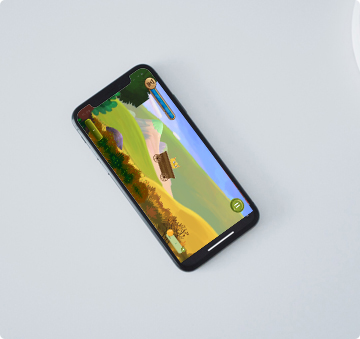
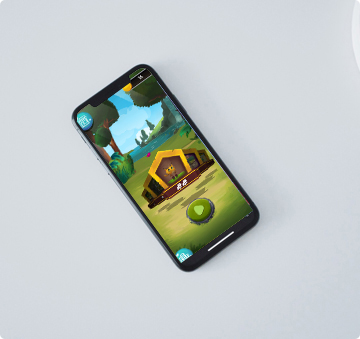
[REFACTOR][PORTFOLIO] adding atalMatal and removing mini games of it.

Changed region(s): [[0.2139, 0.2065, 0.7028, 0.7965]]

diff --git a/index.html b/index.html
@@ -216,15 +216,6 @@
 					</div>
 				</div>
 
-				<!-- <div class="col-lg-4 col-md-6">
-        				<div class="feature_item">
-        					<i class="fa fa-list-alt" aria-hidden="true"></i>
-        					<h4>Frontend web development</h4>
-        					<p>This is where I start the journey in development world! Html, Css, JavaScript, Jquery, Bootstrap And Vue.Js (SPA) are what I can work with to create a neat responsive template.</p>
-        				</div>
-        			</div> -->
-
-
 				<div class="col-lg-4 col-md-6">
 					<div class="feature_item">
 						<i class="fa fa-git"></i>
@@ -278,15 +269,7 @@
 		<div class="container">
 			<div class="main_title">
 				<h2>What I Have done (Selected)</h2>
-				<!-- <p>Lorem ipsum dolor sit amet, consectetur adipisicing elit, sed do eiusmod tempor</p> -->
 			</div>
-			<!-- <div class="projects_fillter">
-					<ul class="filter list">
-						<li class="active" data-filter="*"><a href="#">All Categories</a></li>
-						<li data-filter=".game"><a href="#">Game</a></li>
-						<li data-filter=".other"><a href="#">Other</a></li>
-					</ul>
-				</div> -->
 			<div class="projects_inner row">
 
 				<div class="col-lg-4 col-sm-6 game">
@@ -318,17 +301,6 @@
 				</div>
 
 				<div class="col-lg-4 col-sm-6 game">
-					<a href="https://www.aparat.com/v/I98mc" target="_blank">
-						<div class="projects_item">
-							<img class="img-fluid" src="img/projects/projects-1.jpg" alt="">
-							<div class="projects_text">
-								<h4>Toxic</h4>
-								<p>Unity C# developer + lighting and composition</p>
-							</div>
-						</div>
-					</a>
-				</div>
-				<div class="col-lg-4 col-sm-6 game">
 					<a href="https://play.google.com/store/apps/details?id=com.pantherAndLeopard.mergeCars&hl=en"
 						target="_blank">
 						<div class="projects_item">
@@ -342,6 +314,35 @@
 						</div>
 					</a>
 				</div>
+
+
+				<div class="col-lg-4 col-sm-6 game">
+					<a href="https://cafebazaar.ir/app/com.sebyan.atalmatal" target="_blank">
+						<div class="projects_item">
+							<img class="img-fluid" src="img/projects/projects-9.jpg" alt="">
+							<div class="projects_text">
+
+								<h4>Atal Matal</h4>
+
+								<p>Unity c# developer </p>
+							</div>
+						</div>
+					</a>
+				</div>
+
+
+				<div class="col-lg-4 col-sm-6 game">
+					<a href="https://www.aparat.com/v/I98mc" target="_blank">
+						<div class="projects_item">
+							<img class="img-fluid" src="img/projects/projects-1.jpg" alt="">
+							<div class="projects_text">
+								<h4>Toxic</h4>
+								<p>Unity C# developer + lighting and composition</p>
+							</div>
+						</div>
+					</a>
+				</div>
+				
 				<div class="col-lg-4 col-sm-6 game">
 					<a href="https://www.aparat.com/v/JwiW0" target="_blank">
 						<div class="projects_item">
@@ -349,58 +350,6 @@
 							<div class="projects_text">
 								<h4>the tresure</h4>
 								<p>Unity C# developer</p>
-							</div>
-						</div>
-					</a>
-				</div>
-
-				<div class="col-lg-4 col-sm-6 game">
-					<a href="https://www.aparat.com/v/VKjW5" target="_blank">
-						<div class="projects_item">
-							<img class="img-fluid" src="img/projects/projects-4.jpg" alt="">
-							<div class="projects_text">
-								<h4>Jump Jump</h4>
-								<p>Unity C# developer + Game designer </p>
-							</div>
-						</div>
-					</a>
-				</div>
-
-				<div class="col-lg-4 col-sm-6 game">
-					<a href="https://www.aparat.com/v/J93OY" target="_blank">
-						<div class="projects_item">
-							<img class="img-fluid" src="img/projects/projects-5.jpg" alt="">
-							<div class="projects_text">
-								<h4>Jim's Fly</h4>
-								<p>Unity C# developer + Game designer </p>
-							</div>
-						</div>
-					</a>
-				</div>
-
-				<div class="col-lg-4 col-sm-6 game">
-					<a href="https://www.aparat.com/v/cMD97" target="_blank">
-						<div class="projects_item">
-							<img class="img-fluid" src="img/projects/projects-6.jpg" alt="">
-							<div class="projects_text">
-
-								<h4>Build tower</h4>
-
-								<p>Unity C# developer + Game designer </p>
-							</div>
-						</div>
-					</a>
-				</div>
-
-				<div class="col-lg-4 col-sm-6 game">
-					<a href="https://www.aparat.com/v/2YqSG" target="_blank">
-						<div class="projects_item">
-							<img class="img-fluid" src="img/projects/projects-7.jpg" alt="">
-							<div class="projects_text">
-
-								<h4>Dan's Car</h4>
-
-								<p>Unity C# developer + Game designer </p>
 							</div>
 						</div>
 					</a>
@@ -419,117 +368,12 @@
 						</div>
 					</a>
 				</div>
-
-
-				<!-- <div class="col-lg-4 col-sm-6 game">
-						<div class="projects_item">
-							<img class="img-fluid" src="img/projects/projects-8.jpg" alt="">
-							<div class="projects_text">
-								<a href="https://youtu.be/KJvt_ahFcII" target="_blank"><h4>Match pair</h4></a>
-								<p>2D - Card game</p>
-							</div>
-						</div>
-					</div> -->
-
-				<div class="col-lg-4 col-sm-6 game">
-					<a href="https://www.aparat.com/v/0Tnxg" target="_blank">
-						<div class="projects_item">
-
-							<img class="img-fluid" src="img/projects/projects-9.jpg" alt="">
-							<div class="projects_text">
-								<h4>Acceleration</h4>
-								<p>Unity C# developer + Game designer </p>
-							</div>
-
-						</div>
-					</a>
-				</div>
-
-				<!-- 					<div class="col-lg-4 col-sm-6 other">
-						<div class="projects_item">
-							<img class="img-fluid" src="img/projects/projects-10.jpg" alt="">
-							<div class="projects_text">
-								<a onclick="alert('Need some days to ask the owner of this product to allow for publishing this.')"><h4>Api Samples</h4></a>
-								<p>Laravel - Rest</p>
-							</div>
-						</div>
-					</div>
-
-
-					<div class="col-lg-4 col-sm-6 other">
-						<div class="projects_item">
-							<img class="img-fluid" src="img/projects/projects-11.jpg" alt="">
-							<div class="projects_text">
-								<a onclick="alert('Need some days to ask the owner of this product to allow for publishing this.')"><h4>Api Samples</h4></a>
-								<p>Laravel - Rest</p>
-							</div>
-						</div>
-					</div> -->
-
-
-				<!-- <div class="col-lg-4 col-sm-6 other">
-						<div class="projects_item">
-							<img class="img-fluid" src="img/projects/projects-11.jpg" alt="">
-							<div class="projects_text">
-								<a onclick="alert('Need some days to ask the owner of this product to allow for publishing this.')"><h4>Frontend web dev</h4></a>
-								<p>Html-Css-Js-Jquery-Bootstrap</p>
-							</div>
-						</div>
-					</div> -->
-
-
-
 			</div>
 		</div>
 	</section>
 	<!--================End Projects Area =================-->
 
-	<!-- ================Testimonials Area =================
-        <section class="testimonials_area p_120" style="background-color: white;">
-        	<div class="container">
-        		<div class="main_title">
-        			<h2>Testimonials</h2>
-        		</div>
-        		<div class="testi_inner">
-					<div class="testi_slider owl-carousel">
-						<div class="item">
-							<div class="testi_item">
-								<p>It was a great experieance to work with hamid</p>
-								<h4>Mahdi Folan <br /> CEO Of somethingMe</h4>
-								<a href="#"><i class="fa fa-star"></i></a>
-								<a href="#"><i class="fa fa-star"></i></a>
-								<a href="#"><i class="fa fa-star"></i></a>
-								<a href="#"><i class="fa fa-star"></i></a>
-								<a href="#"><i class="fa fa-star-half-o"></i></a>
-							</div>
-						</div>
-						<div class="item">
-							<div class="testi_item">
-								<p>As conscious traveling Paup ers we must always be oncerned about our dear Mother Earth. If you think about it, you travel across her face</p>
-								<h4>Fanny Spencer</h4>
-								<a href="#"><i class="fa fa-star"></i></a>
-								<a href="#"><i class="fa fa-star"></i></a>
-								<a href="#"><i class="fa fa-star"></i></a>
-								<a href="#"><i class="fa fa-star"></i></a>
-								<a href="#"><i class="fa fa-star-half-o"></i></a>
-							</div>
-						</div>
-						<div class="item">
-							<div class="testi_item">
-								<p>As conscious traveling Paup ers we must always be oncerned about our dear Mother Earth. If you think about it, you travel across her face</p>
-								<h4>Fanny Spencer</h4>
-								<a href="#"><i class="fa fa-star"></i></a>
-								<a href="#"><i class="fa fa-star"></i></a>
-								<a href="#"><i class="fa fa-star"></i></a>
-								<a href="#"><i class="fa fa-star"></i></a>
-								<a href="#"><i class="fa fa-star-half-o"></i></a>
-							</div>
-						</div>
-					</div>
-        		</div>
-        	</div>
-        </section>-->
-	<!--================End Testimonials Area =================-->
+        
 
 	<!--================Footer Area =================-->
 	<footer class="footer_area p_120">
@@ -569,26 +413,6 @@
 						</ul>
 					</aside>
 				</div>
-
-
-				<div class="col-lg-5 col-sm-6">
-					<!-- <aside class="f_widget news_widget">
-								<div class="f_title">
-									<h3>Newsletter</h3>
-								</div>
-								<p>Stay updated with our latest trends</p>
-								<div id="mc_embed_signup">
-									<form target="_blank" action="https://spondonit.us12.list-manage.com/subscribe/post?u=1462626880ade1ac87bd9c93a&amp;id=92a4423d01" method="get" class="subscribe_form relative">
-										<div class="input-group d-flex flex-row">
-											<input name="EMAIL" placeholder="Enter email address" onfocus="this.placeholder = ''" onblur="this.placeholder = 'Email Address '" required="" type="email">
-											<button class="btn sub-btn"><span class="lnr lnr-arrow-right"></span></button>		
-										</div>				
-										<div class="mt-10 info"></div>
-									</form>
-								</div>
-							</aside> -->
-				</div>
-
 
 
 			</div>
